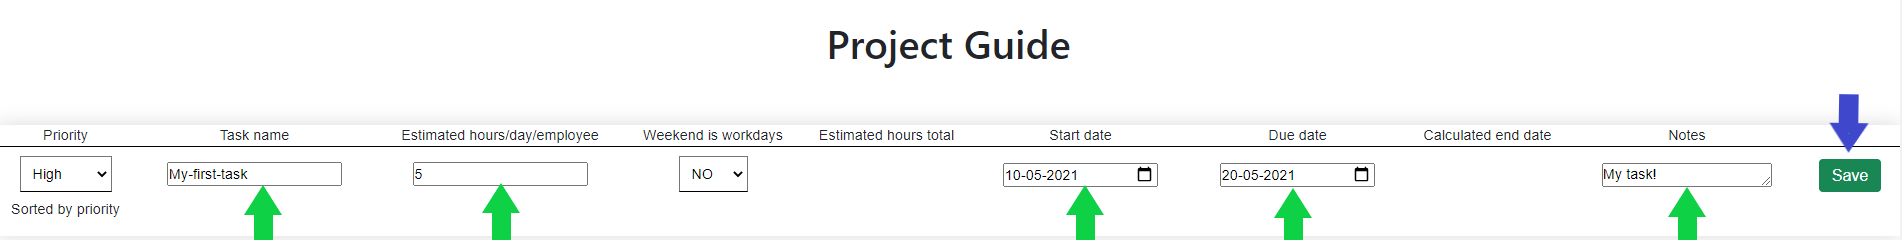
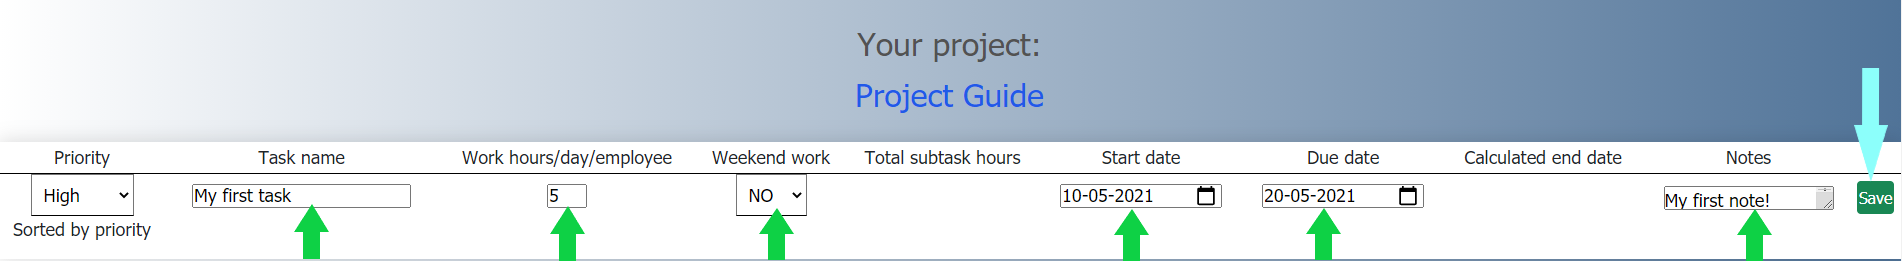
Fixed current project layout

diff --git a/src/main/resources/templates/project/edit-task.html b/src/main/resources/templates/project/edit-task.html
@@ -11,92 +11,119 @@
 </head>
 <body>
 <div th:replace="fragments/header :: header"></div>
+
+
 <div class="content-area">
+
+
     <div class="content-area1-1">
+
         <div><a href="/task-list" class="signup">Return to project</a></div>
 
-    <ul th:each="subtask : ${session.subtasks}">
-        <li>
-            <div class="project-table">
-                <div class="header-group">
-                    <span class="td">Subtask name</span>
-                    <span class="td">Notes</span>
-                    <span class="td">Start date</span>
-                    <span class="td">Due date</span>
-                    <span class="td">Estimated hours to complete</span>
-                    <span class="td"> </span>
+
+       <div> <a href="/employee-manager">Create and edit employees here</a></div>
+
+
+        <ul th:each="subtask : ${session.subtasks}">
+            <li>
+                <div class="project-table">
+                    <div class="header-group">
+                        <span class="td">Subtask name</span>
+                        <span class="td">Notes</span>
+                        <span class="td">Start date</span>
+                        <span class="td">Due date</span>
+                        <span class="td">Estimated hours to complete</span>
+                        <span class="td"> </span>
+                    </div>
+
+                    <div class="row-group">
+                        <form method="post" action="/edit-task" class="tr">
+                            <input type="hidden" name="task-id" th:value="${session.taskId}">
+                            <input type="hidden" name="subtask-id" th:value="${subtask.id}">
+
+
+                            <span class="td"><input type="text" id="subtask-name" name="subtask-name"
+                                                    th:value="${subtask.name}"></span>
+
+
+                            <span class="td"><textarea name="subtask-description" id="subtask-description" cols="30"
+                                                       rows="1"
+                                                       th:text="${subtask.description}"
+                                                       required></textarea></span>
+
+                            <!--     <span class="td"><input type="text" id="subtask-description" name="subtask-description" th:value="${subtask.description}"></span> -->
+                            <span class="td"><input type="date" id="start-time" name="start-time"
+                                                    th:value="${subtask.startTime}"></span>
+                            <span class="td"><input type="date" id="end-time" name="end-time"
+                                                    th:value="${subtask.endTime}"></span>
+                            <span class="td"><input type="number" id="hours-to-complete" name="hours-to-complete"
+                                                    th:value="${subtask.hoursToComplete}"></span>
+
+                            <span class="td">
+                            <input class="btn btn-success" id="save-subtask-btn" type="submit" value="Save"
+                                   name="action" formaction="/save-subtask">
+                            <input class="btn btn-danger" id="delete-subtask-btn" type="submit" value="Delete"
+                                   name="action" formaction="/delete-subtask">
+                        </span>
+                        </form>
+                    </div>
                 </div>
 
-                <div class="row-group">
-                    <form method="post" action="/edit-task" class="tr">
-                        <input type="hidden" name="task-id" th:value="${session.taskId}">
+                <div class="container-employee-manager" id="container-employee-manager">
+                    <form action="/add-employee-to-subtask" method="post" th:if="${!session.allEmployees.isEmpty()}">
                         <input type="hidden" name="subtask-id" th:value="${subtask.id}">
+                        <label for="employee-adder">Add employee</label>
+                        <select name="employee-id" id="employee-adder">
+                            <option th:each="emp : ${session.allEmployees}" th:value="${emp.id}" th:text="${emp.name}"
+                                    th:if="${!subtask.isAssigned(emp.id)}"></option>
+                        </select>
+                        <button class="btn btn-primary" id="add-employee-btn" type="submit">Add</button>
+                    </form>
 
+                    <form action="/remove-employee-from-subtask" method="post"
+                          th:if="${!subtask.assignedEmployees.isEmpty()}">
+                        <input type="hidden" name="subtask-id" th:value="${subtask.id}">
+                        <label for="employee-remover">Remove employee</label>
+                        <select name="employee-id" id="employee-remover">
+                            <option th:each="emp : ${subtask.assignedEmployees}" th:value="${emp.id}"
+                                    th:text="${emp.name}"></option>
+                        </select>
+                        <button class="btn btn-warning" id="remove-employee-btn" type="submit">Remove</button>
+                    </form>
 
-                        <span class="td"><input type="text" id="subtask-name" name="subtask-name" th:value="${subtask.name}"></span>
+                    <form action="/add-skill-to-subtask" method="post" th:if="${!session.allSkills.isEmpty()}">
+                        <input type="hidden" name="subtask-id" th:value="${subtask.id}">
+                        <label for="skill-adder">Add skill: </label>
+                        <select name="skill-id" id="skill-adder">
+                            <option th:each="skill : ${session.allSkills}" th:value="${skill.id}"
+                                    th:text="${skill.name}"
+                                    th:if="${!subtask.hasSkill(skill.id)}"></option>
+                        </select>
+                        <button class="btn btn-primary" id="skill-adder-btn" type="submit">Add</button>
+                    </form>
 
-
-                        <span class="td"><textarea name="subtask-description" id="subtask-description" cols="30" rows="1" th:text="${subtask.description}"
-                                                   required></textarea></span>
-
-                   <!--     <span class="td"><input type="text" id="subtask-description" name="subtask-description" th:value="${subtask.description}"></span> -->
-                        <span class="td"><input type="date" id="start-time" name="start-time" th:value="${subtask.startTime}"></span>
-                        <span class="td"><input type="date" id="end-time" name="end-time" th:value="${subtask.endTime}"></span>
-                        <span class="td"><input type="number" id="hours-to-complete" name="hours-to-complete" th:value="${subtask.hoursToComplete}"></span>
-
-                        <span class="td">
-                            <input class="btn btn-success" id="save-subtask-btn" type="submit" value="Save" name="action" formaction="/save-subtask">
-                            <input class="btn btn-danger" id="delete-subtask-btn" type="submit" value="Delete" name="action" formaction="/delete-subtask">
-                        </span>
+                    <form action="/remove-skill-from-subtask" method="post"
+                          th:if="${!subtask.requiredSkills.isEmpty()}">
+                        <input type="hidden" name="subtask-id" th:value="${subtask.id}">
+                        <label for="skill-remover">Remove skill</label>
+                        <select name="skill-id" id="skill-remover">
+                            <option th:each="skill : ${subtask.requiredSkills}" th:value="${skill.id}"
+                                    th:text="${skill.name}"></option>
+                        </select>
+                        <button class="btn btn-warning" id="skill-remover-btn" type="submit">Remove</button>
                     </form>
                 </div>
-            </div>
-            <div class="container-employee-manager" id="container-employee-manager">
-            <form action="/add-employee-to-subtask" method="post" th:if="${!session.allEmployees.isEmpty()}">
-                <input type="hidden" name="subtask-id" th:value="${subtask.id}">
-                <label for="employee-adder">Add employee</label>
-                <select name="employee-id" id="employee-adder">
-                    <option th:each="emp : ${session.allEmployees}" th:value="${emp.id}" th:text="${emp.name}" th:if="${!subtask.isAssigned(emp.id)}"></option>
-                </select>
-                <button class="btn btn-primary" id="add-employee-btn" type="submit">Add</button>
-            </form>
-
-            <form action="/remove-employee-from-subtask" method="post" th:if="${!subtask.assignedEmployees.isEmpty()}">
-                <input type="hidden" name="subtask-id" th:value="${subtask.id}">
-                <label for="employee-remover">Remove employee</label>
-                <select name="employee-id" id="employee-remover">
-                    <option th:each="emp : ${subtask.assignedEmployees}" th:value="${emp.id}" th:text="${emp.name}"></option>
-                </select>
-                <button class="btn btn-warning" id="remove-employee-btn" type="submit">Remove</button>
-            </form>
-
-            <form action="/add-skill-to-subtask" method="post" th:if="${!session.allSkills.isEmpty()}">
-                <input type="hidden" name="subtask-id" th:value="${subtask.id}">
-                <label for="skill-adder">Add skill: </label>
-                <select name="skill-id" id="skill-adder">
-                    <option th:each="skill : ${session.allSkills}" th:value="${skill.id}" th:text="${skill.name}" th:if="${!subtask.hasSkill(skill.id)}"></option>
-                </select>
-                <button class="btn btn-primary" id="skill-adder-btn" type="submit">Add</button>
-            </form>
-
-            <form action="/remove-skill-from-subtask" method="post" th:if="${!subtask.requiredSkills.isEmpty()}">
-                <input type="hidden" name="subtask-id" th:value="${subtask.id}">
-                <label for="skill-remover">Remove skill</label>
-                <select name="skill-id" id="skill-remover">
-                    <option th:each="skill : ${subtask.requiredSkills}" th:value="${skill.id}" th:text="${skill.name}"></option>
-                </select>
-                <button class="btn btn-warning" id="skill-remover-btn" type="submit">Remove</button>
-            </form>
-            </div>
-        </li>
+            </li>
 
 
-    <div id="assigned-employee">
-        <li>
-            <span id="assigned-employee-span">Assigned employees: </span>
-            <span th:each="emp, iter : ${subtask.getAssignedEmployees()}" >
-                <span   th:onmouseover="'javascript:showDetails(\''+ ${emp.id} +'\');'" th:onmouseout="'javascript:hideDetails(\''+ ${emp.id} +'\');'">
-                    <span id="show-employee-details" th:if="${!iter.last}" th:text="${emp.name} + ', '" th:id="emp.id"></span>
+            <div id="assigned-employee">
+                <li>
+                    <span id="assigned-employee-span">Assigned employees: </span>
+                    <span th:each="emp, iter : ${subtask.getAssignedEmployees()}">
+                <span th:onmouseover="'javascript:showDetails(\''+ ${emp.id} +'\');'"
+                      th:onmouseout="'javascript:hideDetails(\''+ ${emp.id} +'\');'">
+                    <span id="show-employee-details" th:if="${!iter.last}" th:text="${emp.name} + ', '"
+                          th:id="emp.id"></span>
                     <span id="show-employee-details2" th:if="${iter.last}" th:text="${emp.name}"></span>
                 </span>
 
@@ -104,53 +131,56 @@
                     <h1 th:text="${emp.name}"></h1><br>
                 </span>
             </span><br>
-            <span id="required-skill">Required skills: </span>
-            <span th:each="skill, iter : ${subtask.requiredSkills}" >
+                    <span id="required-skill">Required skills: </span>
+                    <span th:each="skill, iter : ${subtask.requiredSkills}">
                 <span th:if="${!iter.last}" th:text="${skill.name} + ', '" th:id="skill.id"></span>
                 <span th:if="${iter.last}" th:text="${skill.name}"></span>
             </span>
 
-        </li>
-        </div>
-    </ul>
-</div>
-
-
-<div id="create-new-subtask">
-    <ul>
-        <li>
-            <h3 style="text-align: left">New subtask:</h3>
-            <div class="project-table">
-                <div class="header-group">
-                    <span class="td">Subtask name</span>
-                    <span class="td">Notes</span>
-                    <span class="td">Start date</span>
-                    <span class="td">Due date</span>
-                    <span class="td">Estimated hours to complete</span>
-                    <span class="td"> </span>
-                </div>
-
-                <div class="row-group">
-                    <form method="post" action="/add-new-subtask" class="tr">
-                        <input type="hidden" name="task-id" th:value="${session.taskId}">
-
-                        <span class="td"><input type="text" name="subtask-name"></span>
-                        <span class="td"><textarea name="subtask-description" id="new-subtask-description" cols="30" rows="1"
-                                                   required></textarea></span>
-                        <span class="td"><input type="date" name="start-time"></span>
-                        <span class="td"><input type="date" name="end-time"></span>
-                        <span class="td"><input type="number" name="hours-to-complete"></span>
-
-                        <span class="td">
-                            <input class="btn btn-success" id="save-button-new-subtask" type="submit" value="Save" name="action" formaction="/add-new-subtask">
-                        </span>
-                    </form>
-                </div>
+                </li>
             </div>
-        </li>
-    </ul>
-</div>
-    <a href="/employee-manager">Create and edit employees here</a>
+        </ul>
+
+
+        <div id="create-new-subtask">
+            <ul>
+                <li>
+                    <h3 style="text-align: left">New subtask:</h3>
+                    <div class="project-table">
+                        <div class="header-group">
+                            <span class="td">Subtask name</span>
+                            <span class="td">Notes</span>
+                            <span class="td">Start date</span>
+                            <span class="td">Due date</span>
+                            <span class="td">Estimated hours to complete</span>
+                            <span class="td"> </span>
+                        </div>
+
+                        <div class="row-group">
+                            <form method="post" action="/add-new-subtask" class="tr">
+                                <input type="hidden" name="task-id" th:value="${session.taskId}">
+
+                                <span class="td"><input type="text" name="subtask-name"></span>
+                                <span class="td"><textarea name="subtask-description" id="new-subtask-description"
+                                                           cols="30"
+                                                           rows="1"
+                                                           required></textarea></span>
+                                <span class="td"><input type="date" name="start-time"></span>
+                                <span class="td"><input type="date" name="end-time"></span>
+                                <span class="td"><input type="number" name="hours-to-complete"></span>
+
+                                <span class="td">
+                            <input class="btn btn-success" id="save-button-new-subtask" type="submit" value="Save"
+                                   name="action" formaction="/add-new-subtask">
+                        </span>
+                            </form>
+                        </div>
+                    </div>
+                </li>
+            </ul>
+
+        </div>
+    </div>
 </div>
 
 </body>

diff --git a/src/main/resources/static/css/general.css b/src/main/resources/static/css/general.css
@@ -4,6 +4,14 @@
     font-family: "Tahoma";
 
 }
+
+ul {
+
+    padding: 0px;
+}
+li {
+    padding: 0px;
+}
 body {
     text-align: center;
     height: auto;
@@ -88,6 +96,8 @@ body {
     padding-top: 20px;
 }
 
+
+
 .signup-fp{
     color: #2159e8;
     width: 30%;
@@ -117,6 +127,14 @@ body {
     position: relative;
     font-size: 20px;
 
+}
+
+.content-area1-1 {
+    background: linear-gradient(to left, #507398, white);
+    position: absolute;
+    color: #525252;
+    text-align: center;
+    width: 100%;
 }
 
 /*______Footer_______*/
@@ -153,7 +171,7 @@ ul{list-style-type: none;
     background-color: #ffffff;
 }
 
-li {
+.nav-bar li {
      float: right;
      display: inline-block;
      text-align: center;
@@ -162,7 +180,7 @@ li {
      margin-top: 55px;
  }
 
-li a, .dropbtn {
+.nav-bar li a, .dropbtn {
     display: inline-block;
     color: #525252;
     text-align: center;
@@ -172,12 +190,12 @@ li a, .dropbtn {
 
 
 
-li.dropdown {
+.nav-bar li.dropdown {
     display: inline-block;
 
 }
 
-li a:hover{
+.nav-bar li a:hover{
     color:#2159e8;
 }
 

diff --git a/src/main/resources/templates/project/help-page.html b/src/main/resources/templates/project/help-page.html
@@ -9,11 +9,20 @@
     <div class="content-area1-1">
 <h1> This page will guide you through the usage of the Project Management Tool</h1>
 
-<img src="help-page/Guide #1 finished.png" alt="Guide to help this project tool">
+<p>1) Fill out information marked by green arrows. Then save</p>
+<img src="image/help-page/guide1.png" alt="Guide to help this project tool" style="max-width: 70%; min-height: 150%">
+
+<p>2) This is your first task. You can create subtasks for this task by going to 'View subtasks' </p>
+<img src="image/help-page/guide2.png" alt="2nd guide to help this project tool" style="max-width: 70%; min-height: 150%">
 
     </div>
 </div>
 
+<p>3) Now create your first subtask and save it</p>
+<img src="./image/help-page/Guide #3 finished.png" alt="3nd guide to help with the subtask">
+
+<p>4) Now create your first employee to manage this subtask</p>
+<img src="./image/help-page/Guide #4 finished.png" alt="4nd guide to help with the subtask">
 
 </body>
 </html>

diff --git a/src/main/resources/templates/fragments/header.html b/src/main/resources/templates/fragments/header.html
@@ -25,7 +25,7 @@
                          <a href="/create-project">Manage projects</a>
                          <div class="dropdown-content">
                              <a href="/create-project">Create project</a>
-                             <a href="/see-all-projects">My project</a>
+                             <a href="/see-all-projects">My projects</a>
                              <a href="/shared-with-me">Shared projects</a>
                              <a href="/employee-manager">Employee manager</a>
                          </div>
